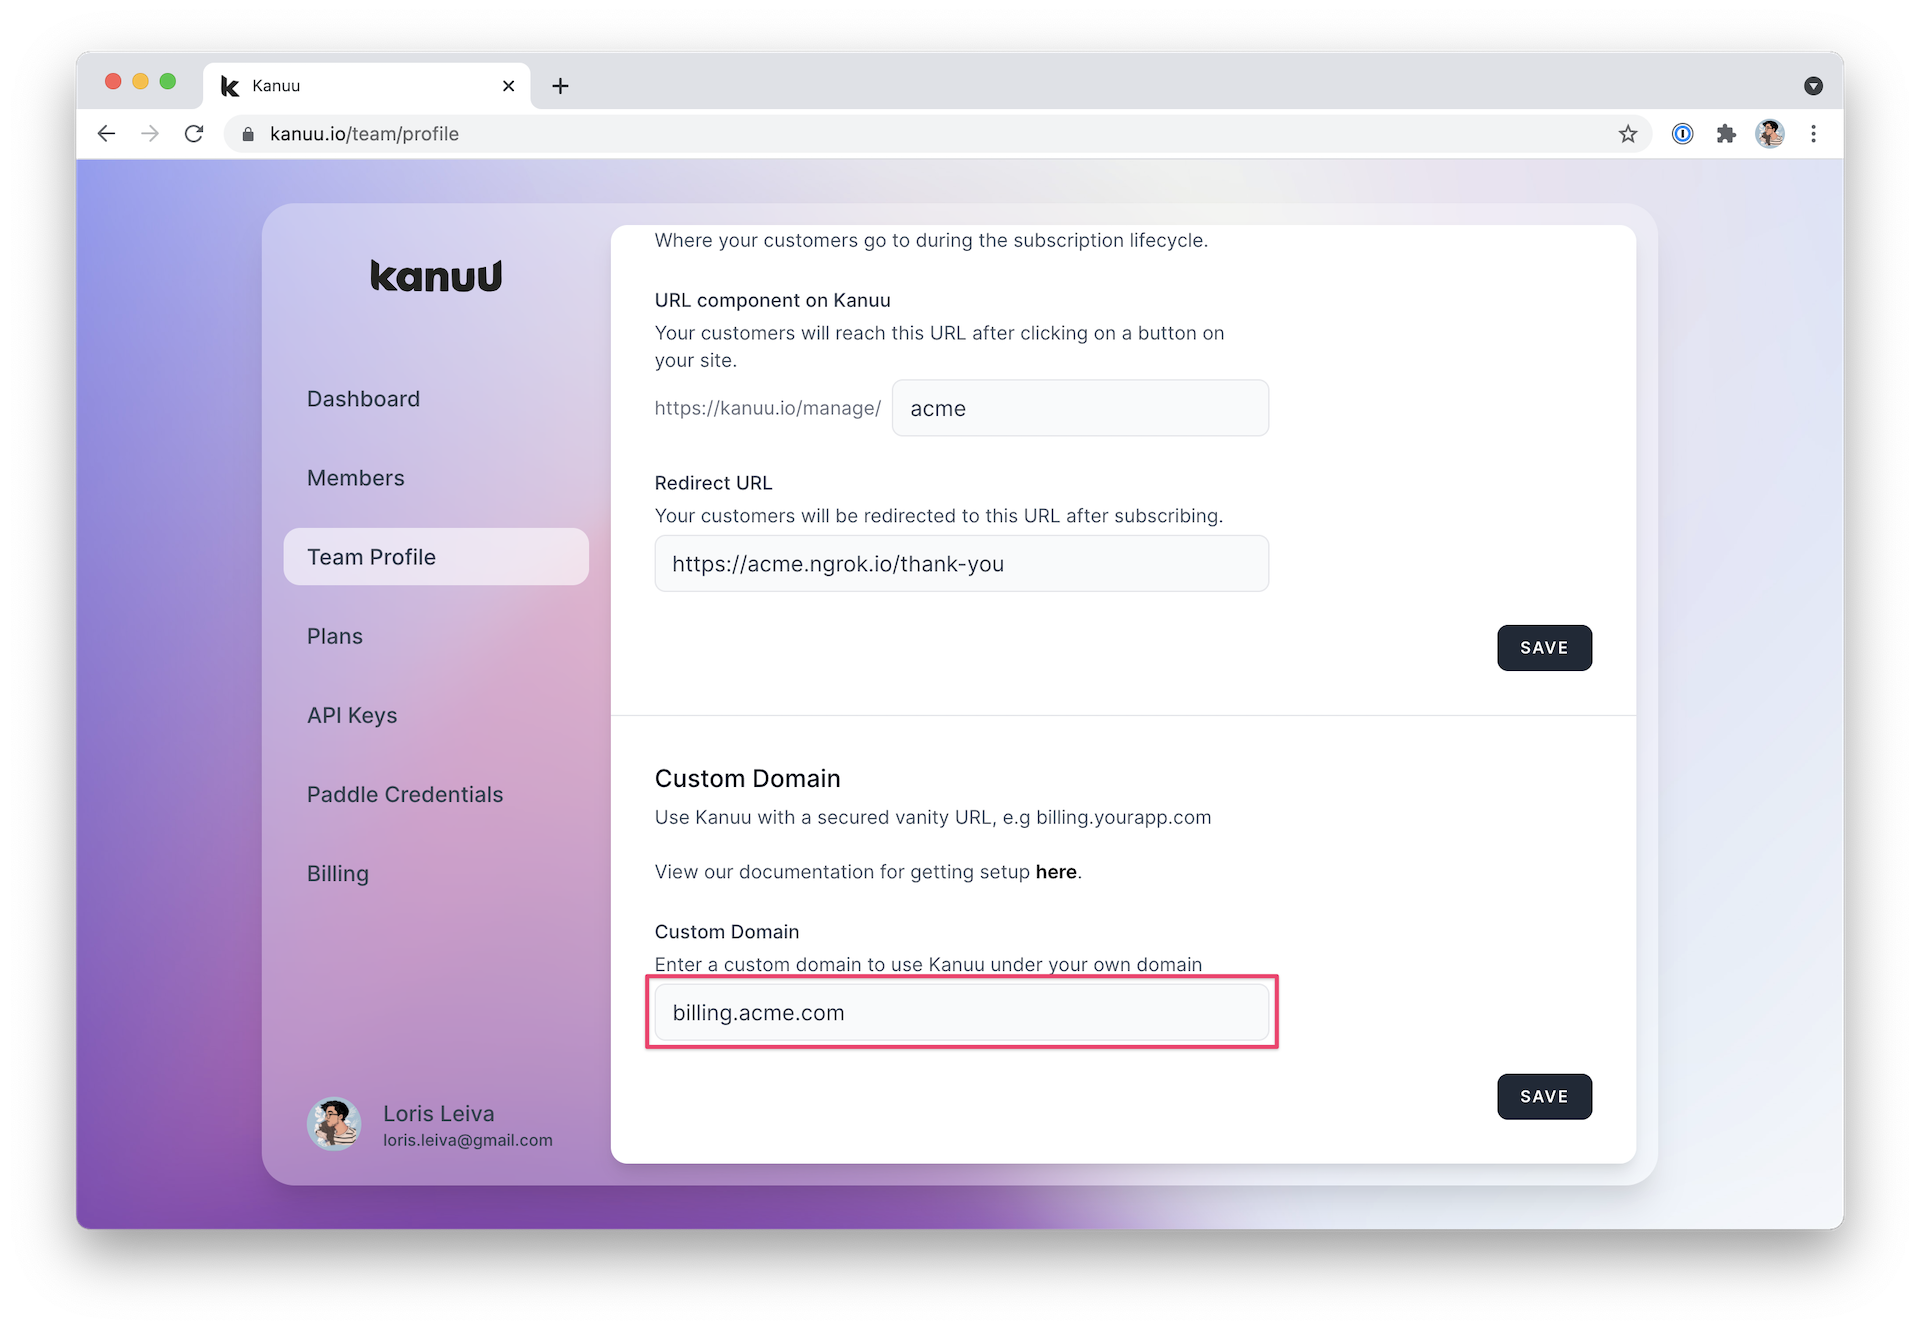
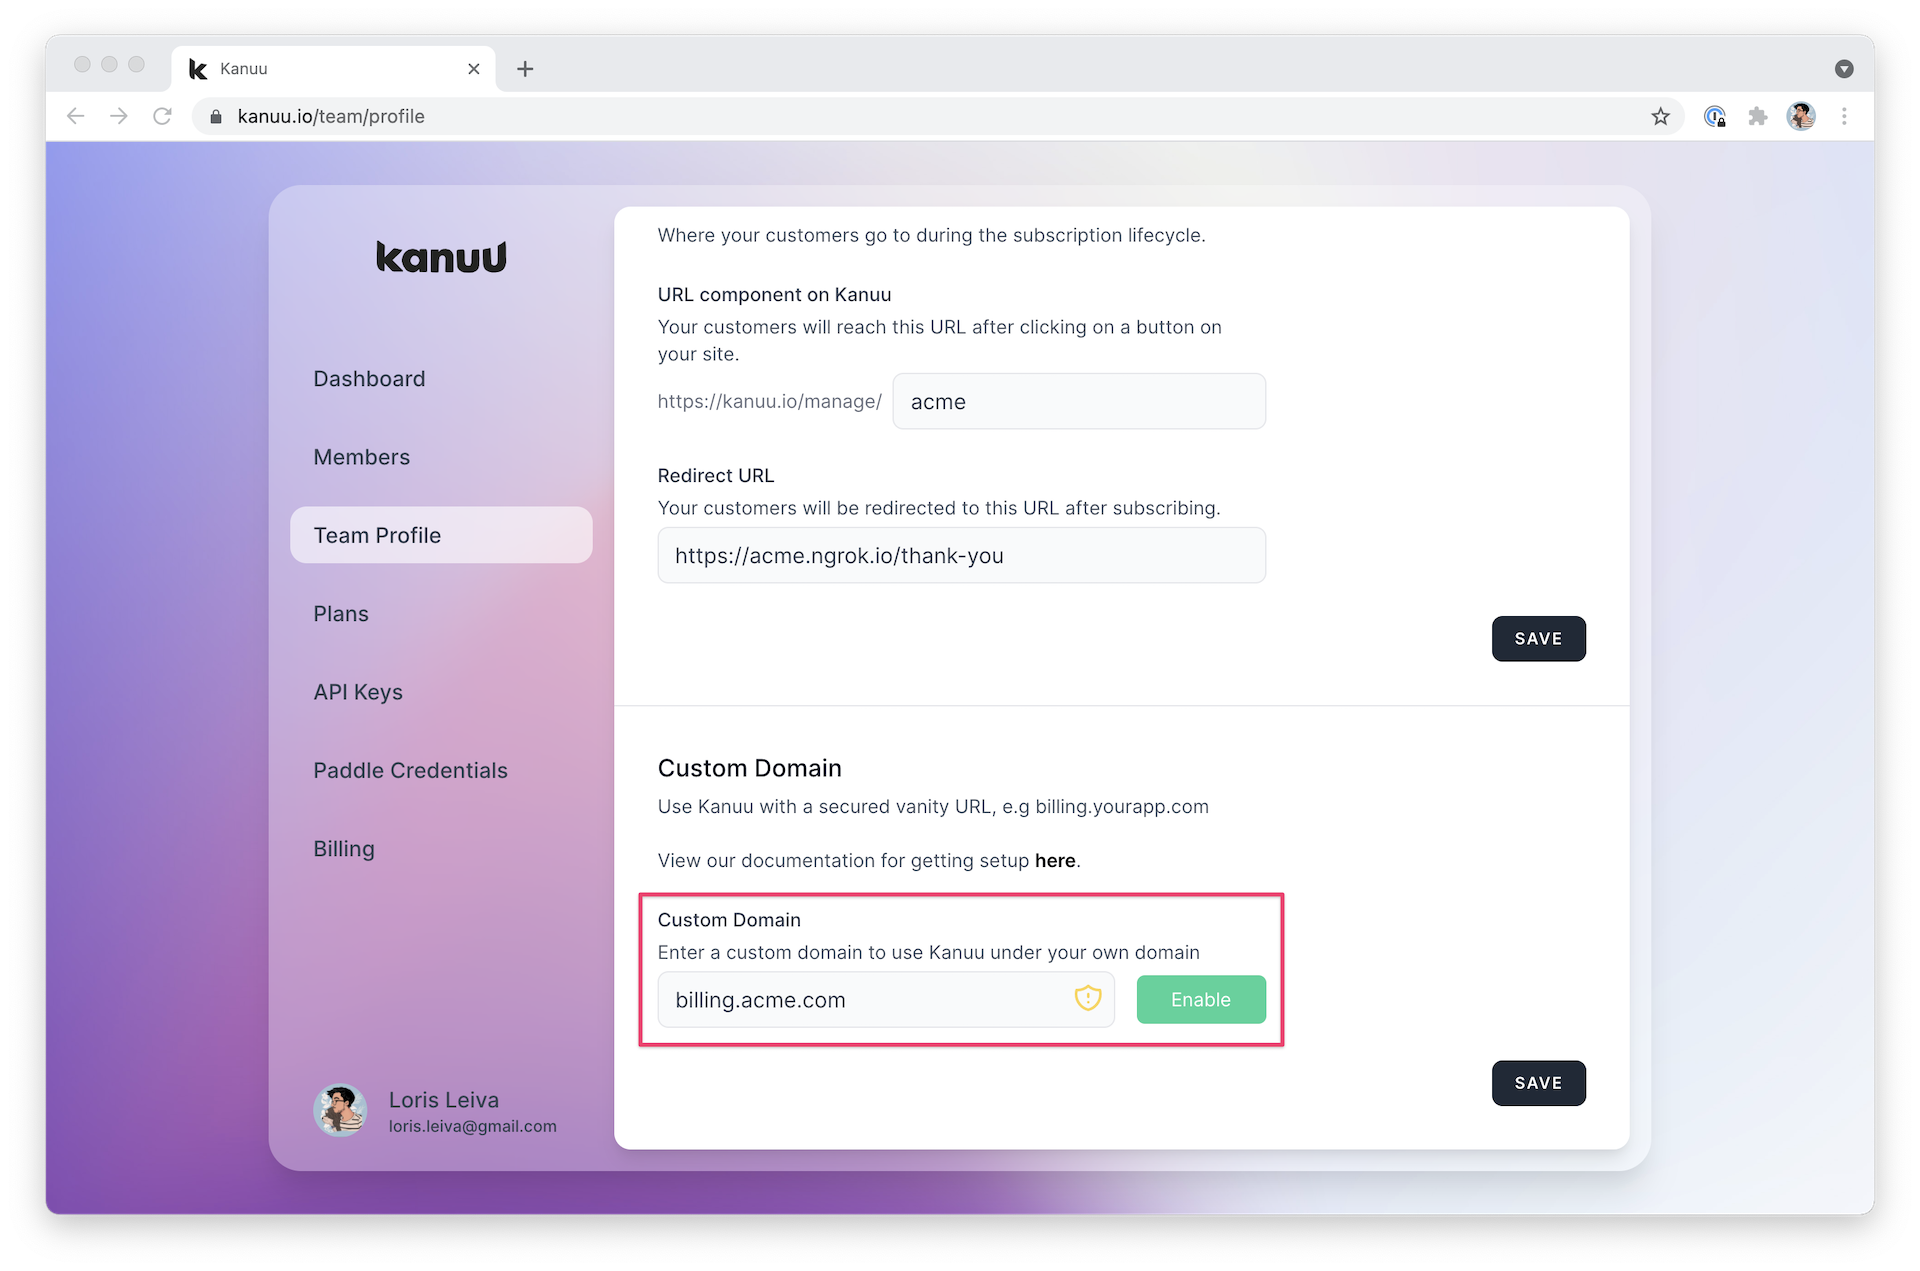
Update images

diff --git a/advanced/custom-domains.md b/advanced/custom-domains.md
@@ -24,7 +24,7 @@ In your team settings you'll find a new section for custom domains. Here you can
 
 At this point we need to check your DNS is setup correctly and then issue you with a SSL certificate so your custom domain can be served over `https`. If your DNS records are setup correctly, then this step should only take around 5 minutes.
 
-![Example unverified domain.](/unverified-custom-domain.png)
+![Example unverified domain.](/kanuu_custom_domains.png)
 
 Once verification is complete you'll see a green shield, to confirm you are secured!
 
